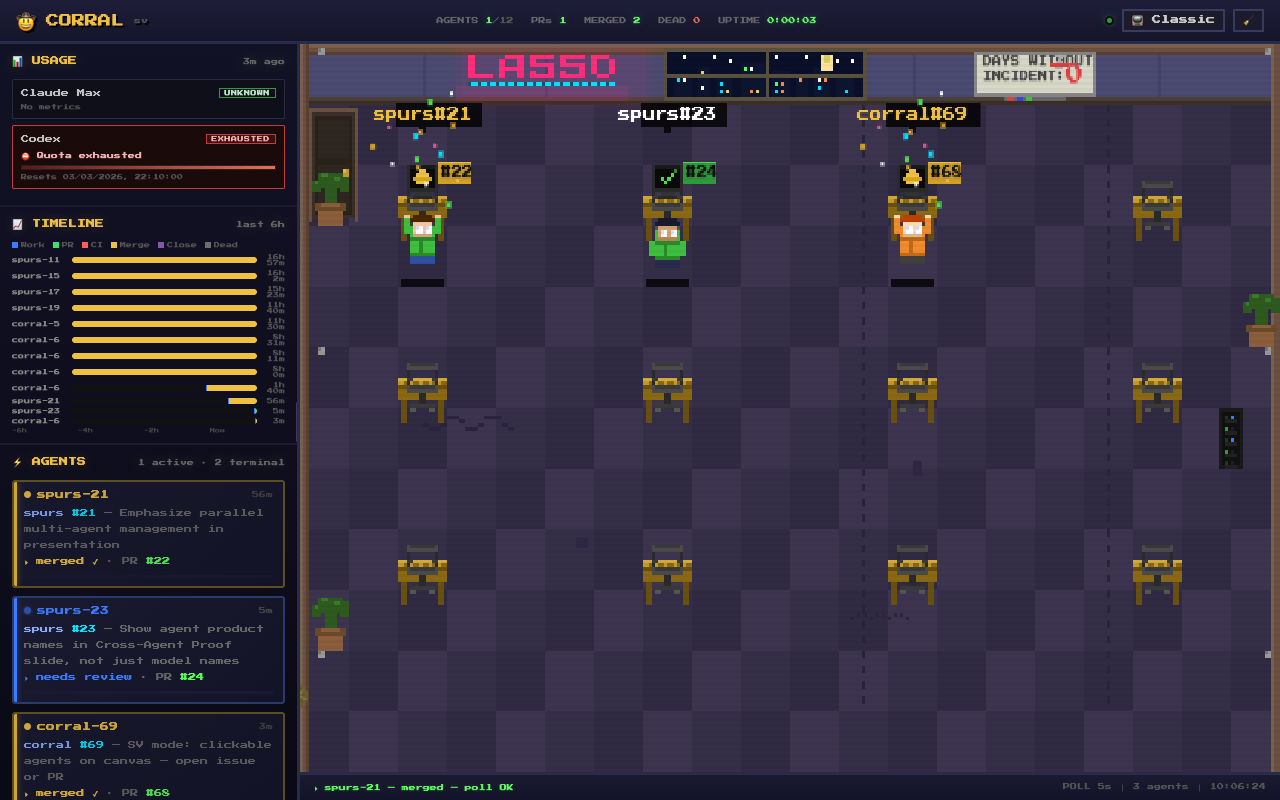
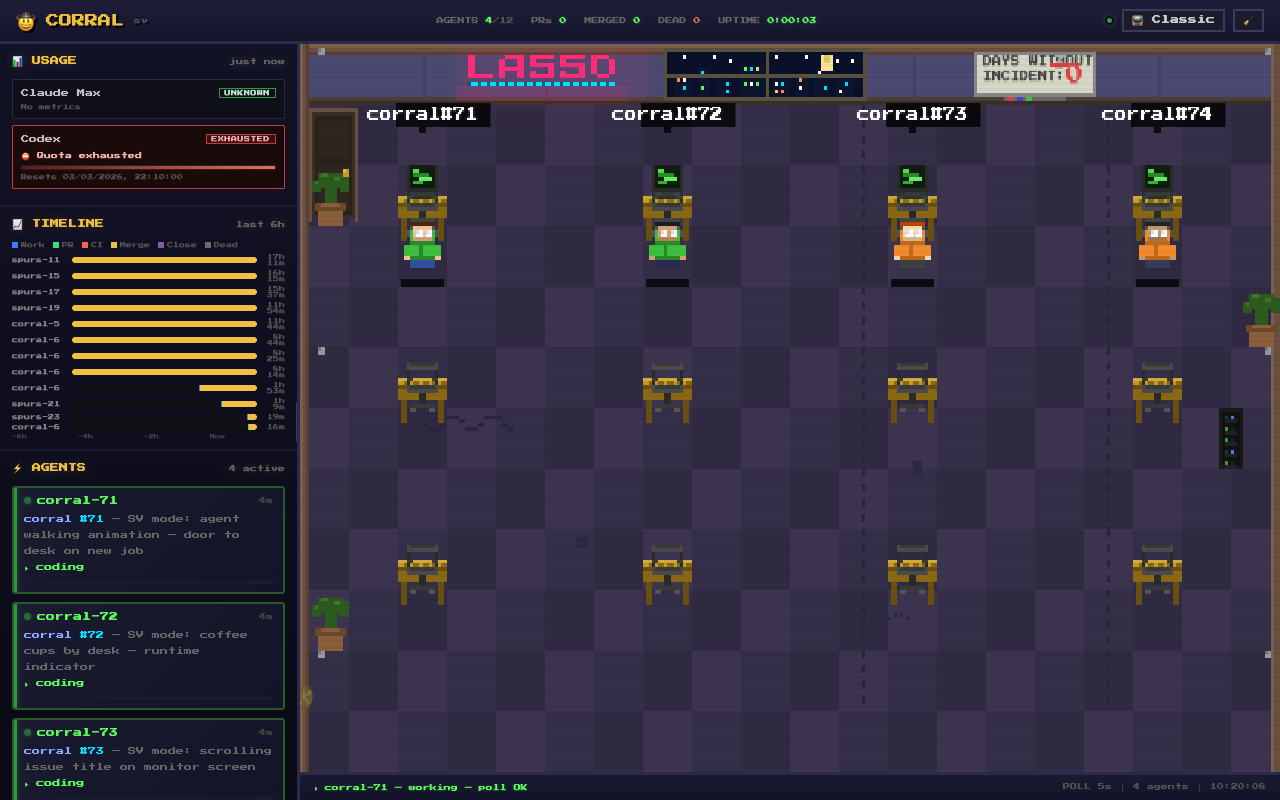
SV canvas: scrolling issue title on monitor screens
Add scrolling text overlay to desk monitors in SV view, matching Classic
view behavior. Text shows repo#issue — title, scrolls left continuously,
and is clipped to the monitor screen bounds. Screen background color still
reflects agent state (coding=green, ci_failed=red, etc.).

diff --git a/sv.html b/sv.html
@@ -1288,7 +1288,7 @@ function drawChair(d) {
   ctx.restore();
 }
 
-function drawMonitor(d, state) {
+function drawMonitor(d, state, monitorText) {
   ctx.save(); ctx.scale(SCALE, SCALE);
   const x = d.x * TILE + 3, y = d.y * TILE;
   R(x, y, 10, 7, PAL.monitorBezel); R(x+1, y, 8, 1, PAL.monitor);
@@ -1316,6 +1316,22 @@ function drawMonitor(d, state) {
   } else {
     R(x+3,y+3,1,1,'#4ae04a'); R(x+4,y+4,1,1,'#4ae04a');
     R(x+5,y+3,1,1,'#4ae04a'); R(x+6,y+2,1,1,'#4ae04a'); R(x+7,y+1,1,1,'#2a8a2a');
+  }
+  // Scrolling issue title text on monitor screen
+  if (monitorText) {
+    ctx.restore(); // exit SCALE transform for text rendering
+    const sx = (x + 1) * SCALE, sy = (y + 1) * SCALE, sw = 8 * SCALE, sh = 5 * SCALE;
+    ctx.save();
+    ctx.beginPath(); ctx.rect(sx, sy, sw, sh); ctx.clip();
+    ctx.fillStyle = state === 'ci_failed' ? '#ff6666' : (state === 'coding' ? '#4ae04a' : '#8888ff');
+    ctx.font = '5px "Press Start 2P", monospace';
+    ctx.textBaseline = 'middle';
+    const textWidth = ctx.measureText(monitorText).width;
+    const totalScroll = textWidth + sw + 4;
+    const scroll = (frame * 0.6) % totalScroll;
+    ctx.fillText(monitorText, sx + sw - scroll, sy + sh / 2);
+    ctx.restore();
+    ctx.save(); ctx.scale(SCALE, SCALE); // re-enter SCALE for remaining drawing
   }
   R(x+3, y+7, 4, 1, '#333'); R(x+2, y+8, 6, 1, '#2a2a2a');
   if (state === 'coding' || state === 'ci_failed') {
@@ -1519,6 +1535,13 @@ function buildCanvasAgents() {
       tokens: Math.min(100, Math.max(0, getTokens(agent) / 2000 * 100)),
       dead: state === 'dead' || state === 'exited',
       label: getRepoName(agent) + (getIssueId(agent) ? '#' + getIssueId(agent) : ''),
+      monitorText: (function() {
+        const title = (agent.issueTitle || '').toString().trim();
+        const repo = getRepoName(agent);
+        const id = getIssueId(agent);
+        const prefix = repo && id ? repo + '#' + id : (repo || '');
+        return title && prefix ? prefix + ' — ' + title : (title || prefix || '');
+      })(),
       failing: isCiFailing(agent),
     };
   });
@@ -1542,7 +1565,7 @@ function render() {
     const screenState = a.failing ? 'ci_failed' :
       a.state === 'coding' ? 'coding' :
       a.state === 'merged' ? 'merged' : 'pr_open';
-    drawMonitor(d, screenState);
+    drawMonitor(d, screenState, a.monitorText);
 
     if (a.dead) drawTombstone(d);
     else drawCharacter(d, a.ci, a.state);
